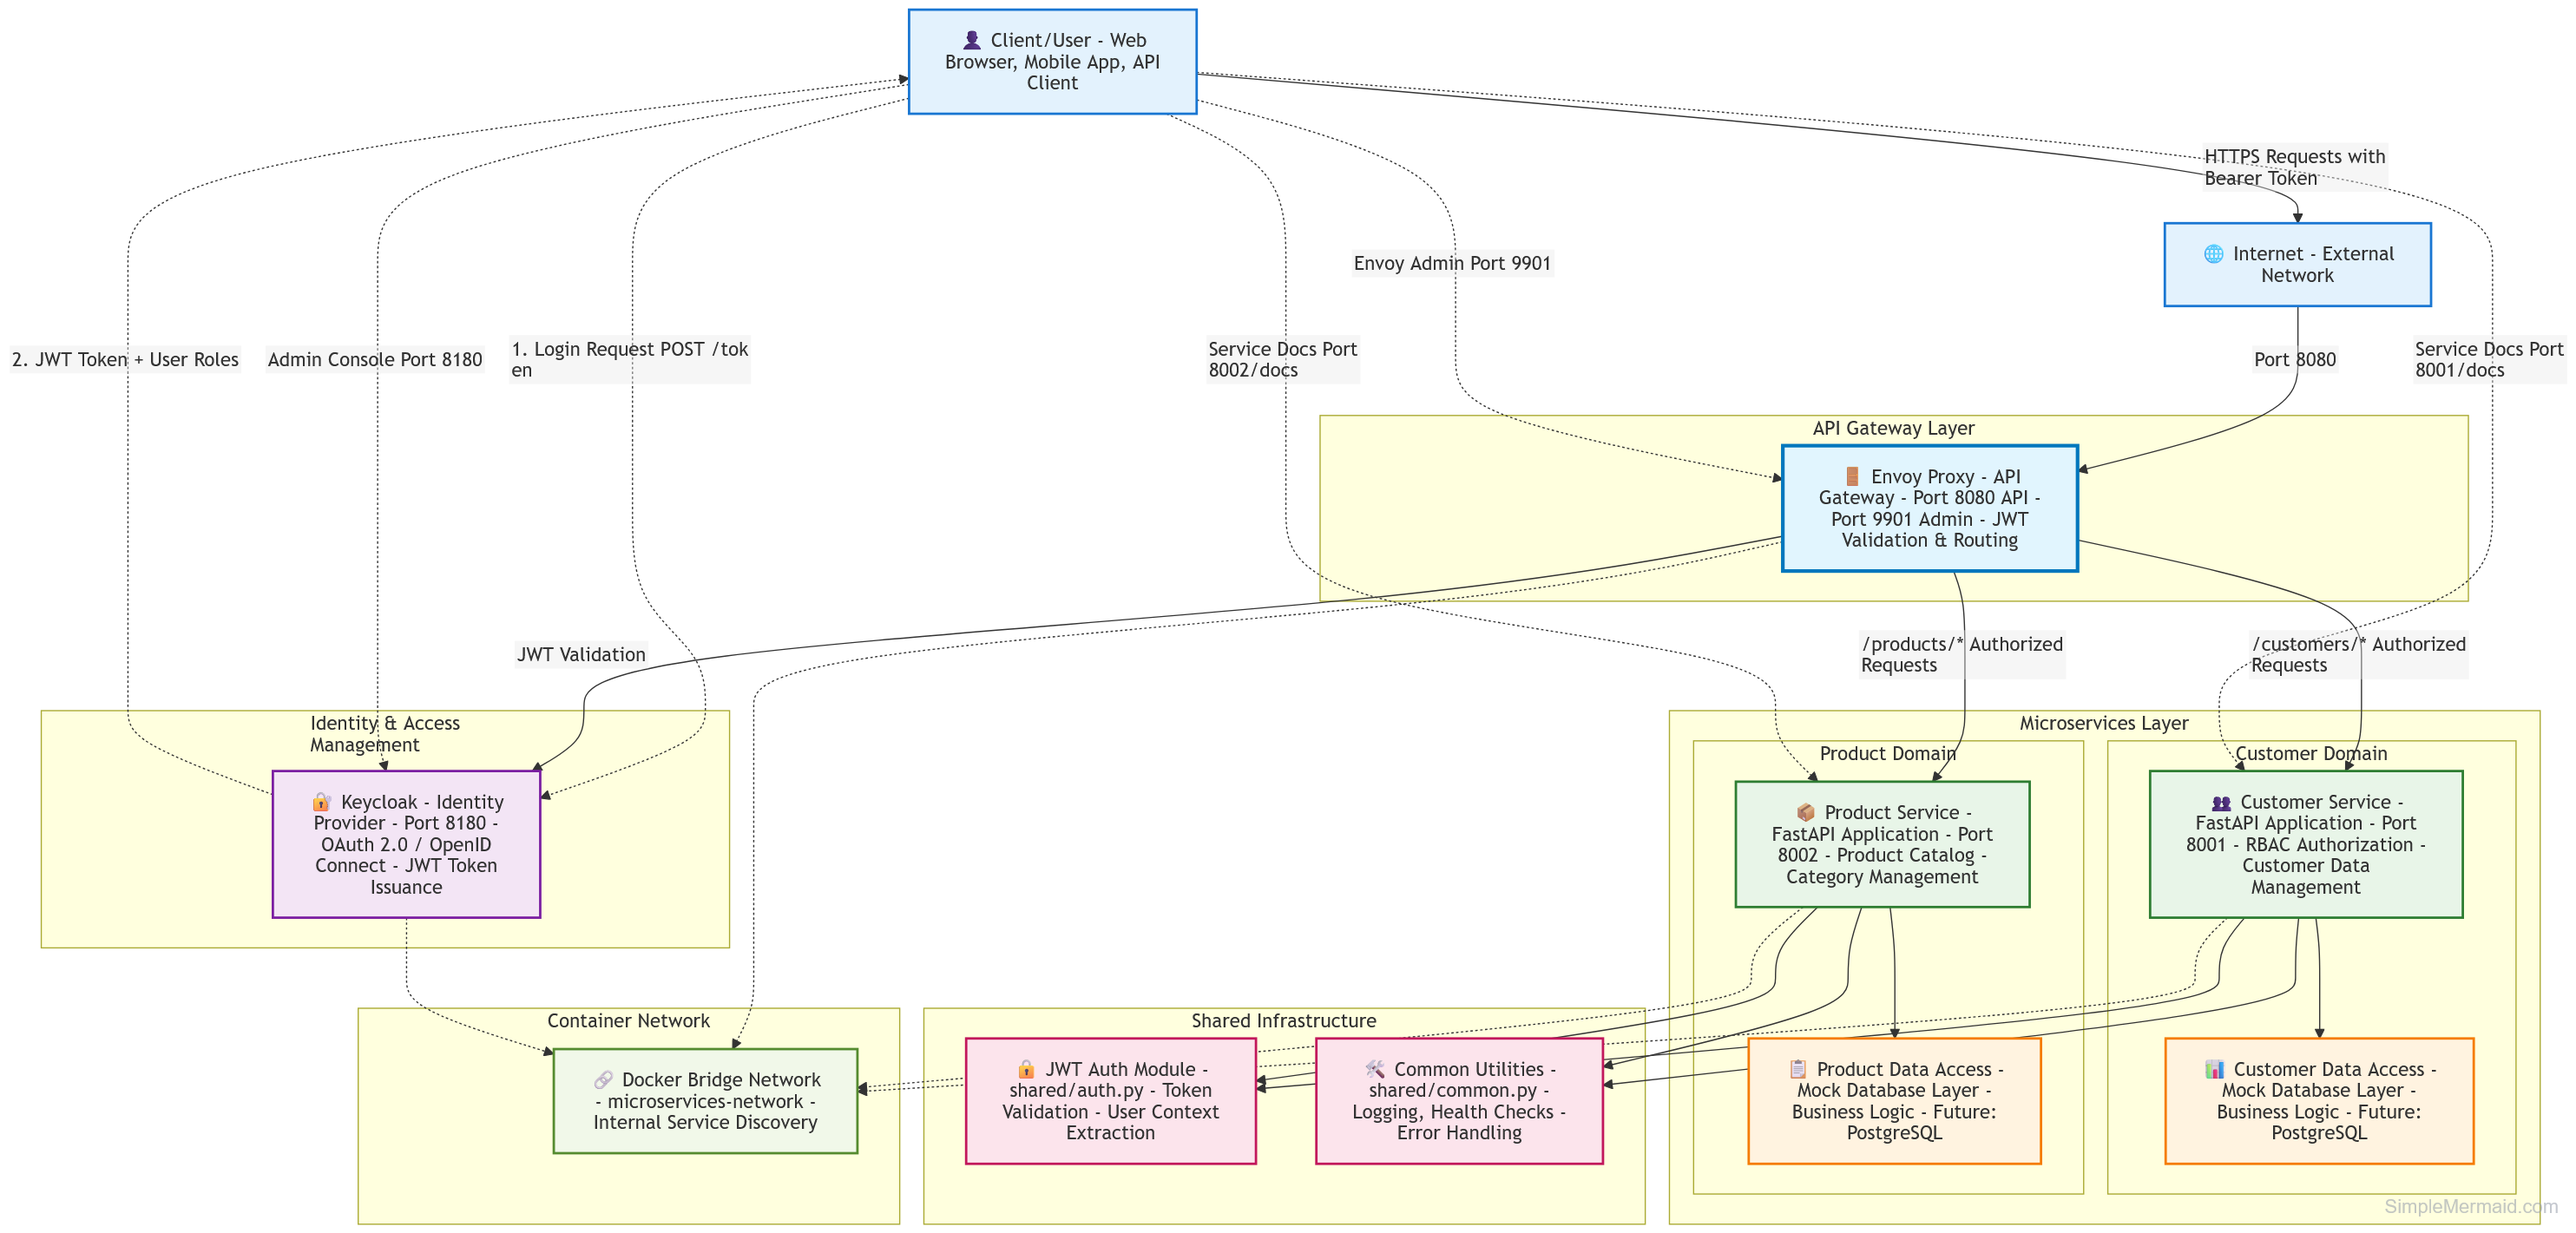
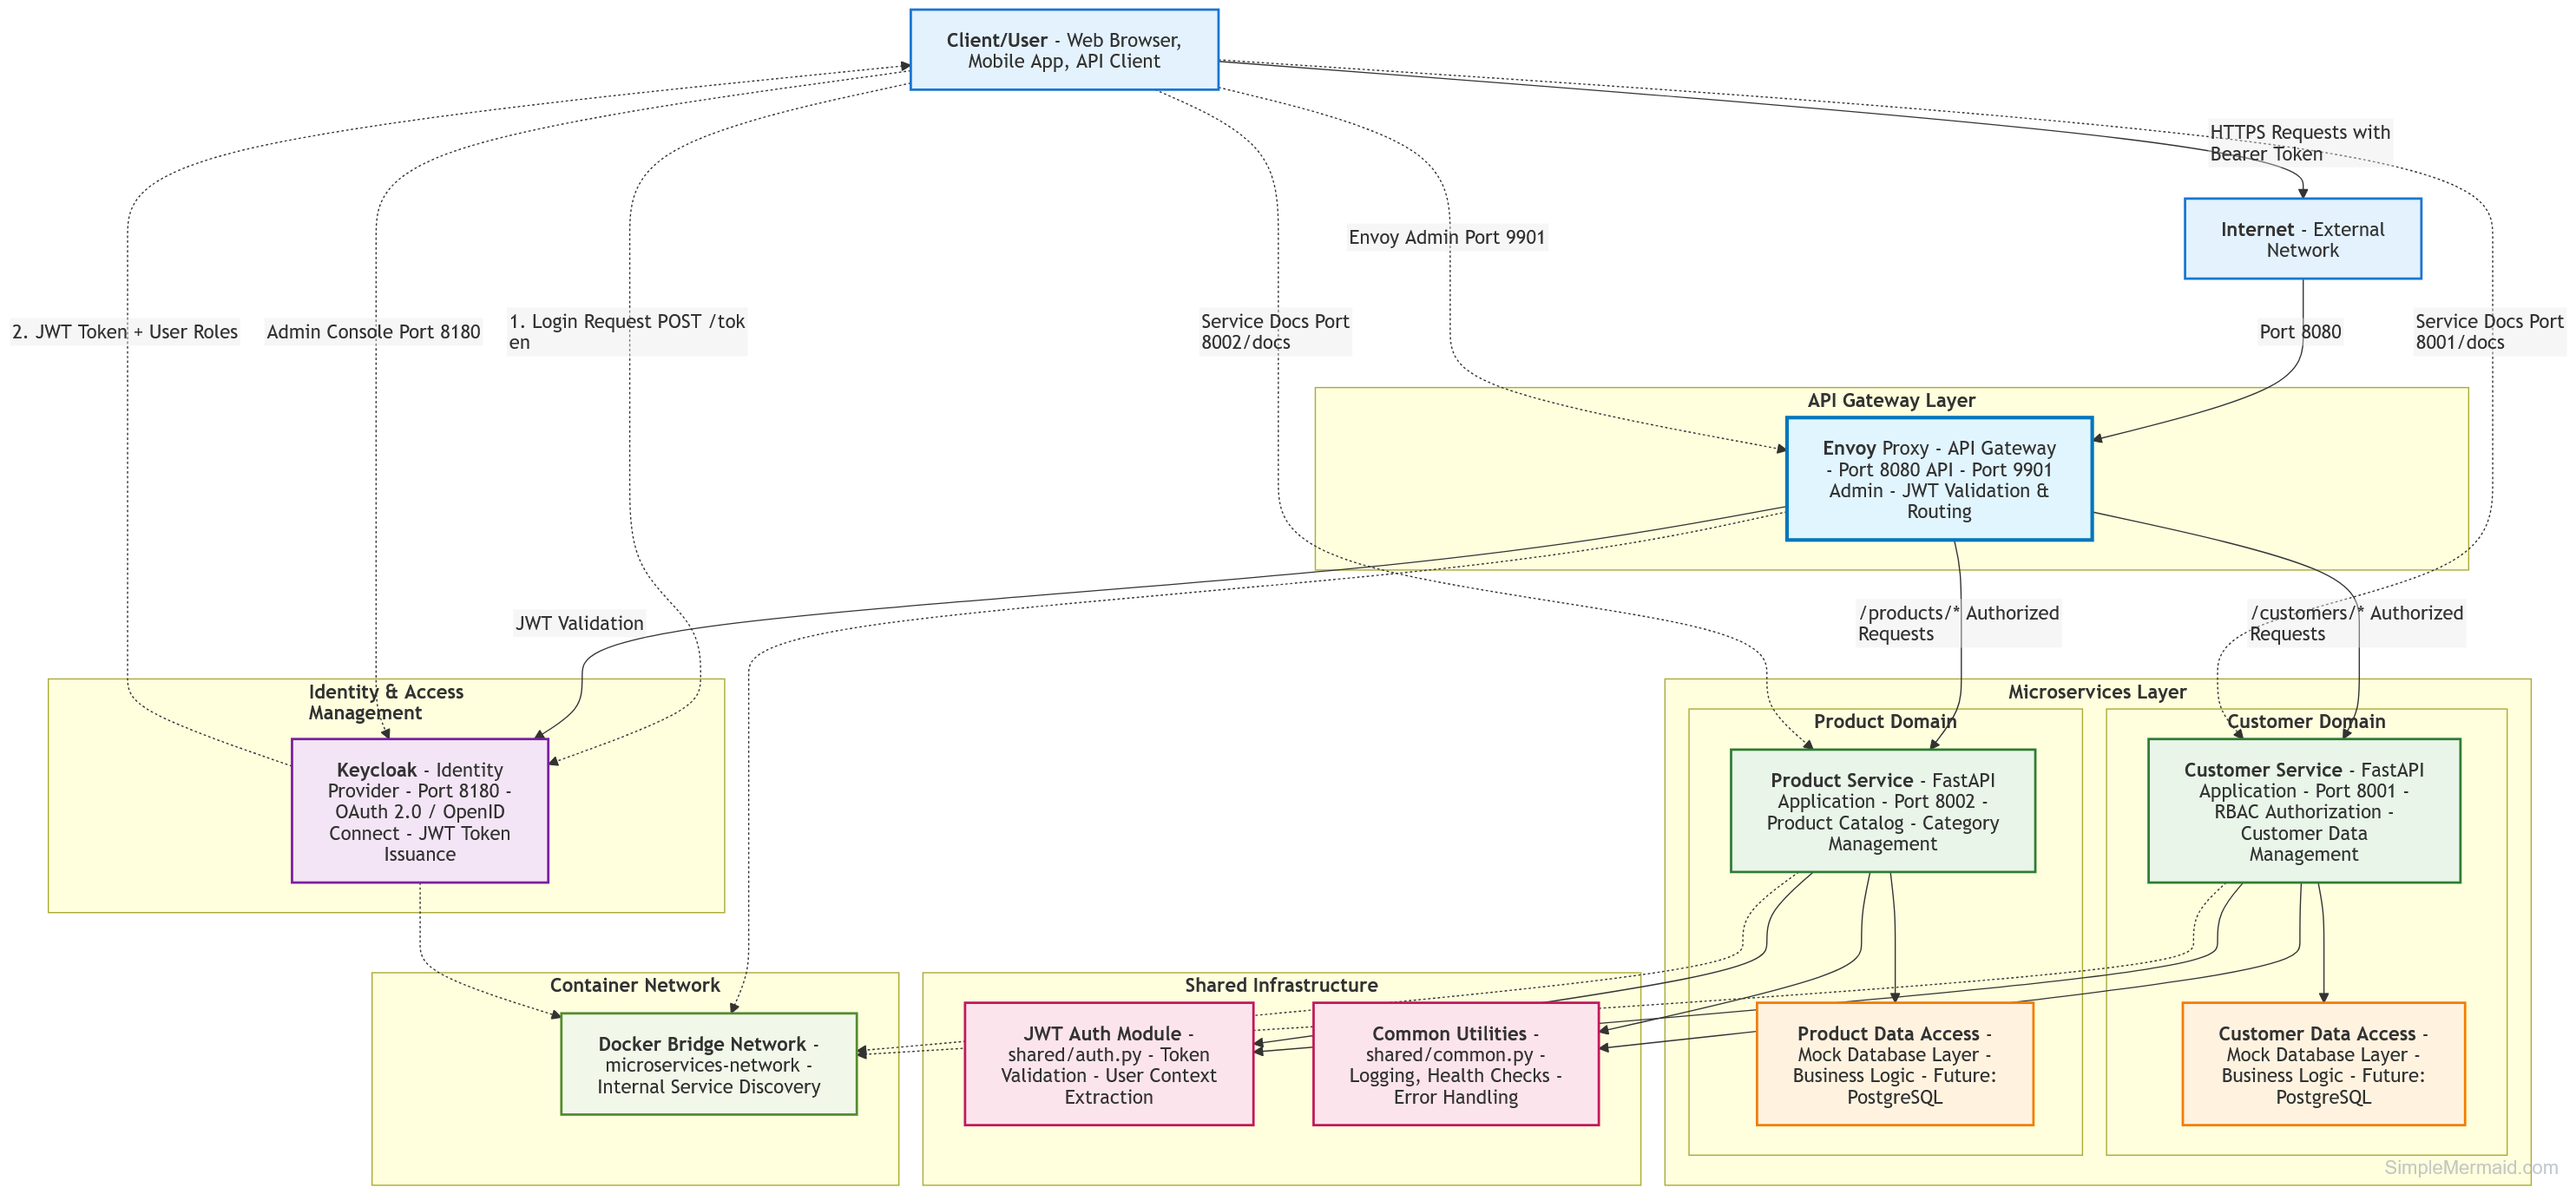
Updated diagram and unicode/emoji issues

diff --git a/docs/architecture/system-architecture.md b/docs/architecture/system-architecture.md
@@ -7,45 +7,44 @@ This document provides a high-level view of the API Gateway POC system architect
 ```mermaid
 graph TB
     %% External Users
-    User[?? Client/User - Web Browser, Mobile App, API Client]
- 
+    User[**Client/User** - Web Browser, Mobile App, API Client]
+    
     %% External Internet
-    Internet[?? Internet - External Network]
+    Internet[**Internet** - External Network]
     
     %% API Gateway Layer
-    subgraph "API Gateway Layer"
-        Envoy[?? Envoy Proxy - API Gateway - Port 8080 API - Port 9901 Admin - JWT Validation & Routing]
+    subgraph "**API Gateway Layer**"
+        Envoy[**Envoy** Proxy - API Gateway - Port 8080 API - Port 9901 Admin - JWT Validation & Routing]
     end
     
     %% Authentication Layer
-    subgraph "Identity & Access Management"
-        Keycloak[?? Keycloak - Identity Provider - Port 8180 - OAuth 2.0 / OpenID Connect - JWT Token Issuance]
+    subgraph "**Identity & Access Management**"
+        Keycloak[**Keycloak** - Identity Provider - Port 8180 - OAuth 2.0 / OpenID Connect - JWT Token Issuance]
     end
 
     %% Microservices Layer
-    subgraph "Microservices Layer"
-subgraph "Customer Domain"
-          CustomerAPI[?? Customer Service - FastAPI Application - Port 8001 - RBAC Authorization - Customer Data Management]
-          CustomerData[?? Customer Data Access - Mock Database Layer - Business Logic - Future: PostgreSQL]
-  end
-        
-        subgraph "Product Domain"
-         ProductAPI[?? Product Service - FastAPI Application - Port 8002 - Product Catalog - Category Management]
-      ProductData[?? Product Data Access - Mock Database Layer - Business Logic - Future: PostgreSQL]
-    end
+    subgraph "**Microservices Layer**"
+        subgraph "**Customer Domain**"
+            CustomerAPI[**Customer Service** - FastAPI Application - Port 8001 - RBAC Authorization - Customer Data Management]
+            CustomerData[**Customer Data Access** - Mock Database Layer - Business Logic - Future: PostgreSQL]
+        end      
+        subgraph "**Product Domain**"
+            ProductAPI[**Product Service** - FastAPI Application - Port 8002 - Product Catalog - Category Management]
+            ProductData[**Product Data Access** - Mock Database Layer - Business Logic - Future: PostgreSQL]
+        end
     end
     
     %% Shared Infrastructure
-    subgraph "Shared Infrastructure"
-        AuthModule[?? JWT Auth Module - shared/auth.py - Token Validation - User Context Extraction]
-  CommonUtils[??? Common Utilities - shared/common.py - Logging, Health Checks - Error Handling]
+    subgraph "**Shared Infrastructure**"
+        AuthModule[**JWT Auth Module** - shared/auth.py - Token Validation - User Context Extraction]
+        CommonUtils[**Common Utilities** - shared/common.py - Logging, Health Checks - Error Handling]
     end
     
     %% Network
-    subgraph "Container Network"
-        Network[?? Docker Bridge Network - microservices-network - Internal Service Discovery]
+    subgraph "**Container Network**"
+        Network[**Docker Bridge Network** - microservices-network - Internal Service Discovery]
     end
-  
+    
     %% Data Flow Connections
     User -->|HTTPS Requests with Bearer Token| Internet
     Internet -->|Port 8080| Envoy
@@ -58,7 +57,7 @@ subgraph "Customer Domain"
     Envoy -->|JWT Validation| Keycloak
     Envoy -->|/customers/* Authorized Requests| CustomerAPI
     Envoy -->|/products/* Authorized Requests| ProductAPI
-    
+
     %% Service Internal Flow
     CustomerAPI --> AuthModule
     CustomerAPI --> CustomerData
@@ -66,7 +65,7 @@ subgraph "Customer Domain"
     
     ProductAPI --> AuthModule
     ProductAPI --> ProductData
-  ProductAPI --> CommonUtils
+    ProductAPI --> CommonUtils
     
     %% Network Connections
     Envoy -.-> Network
@@ -83,7 +82,7 @@ subgraph "Customer Domain"
     %% Styling
     classDef gateway fill:#e1f5fe,stroke:#0277bd,stroke-width:3px
     classDef auth fill:#f3e5f5,stroke:#7b1fa2,stroke-width:2px
-classDef service fill:#e8f5e8,stroke:#2e7d32,stroke-width:2px
+    classDef service fill:#e8f5e8,stroke:#2e7d32,stroke-width:2px
     classDef data fill:#fff3e0,stroke:#f57c00,stroke-width:2px
     classDef shared fill:#fce4ec,stroke:#c2185b,stroke-width:2px
     classDef network fill:#f1f8e9,stroke:#558b2f,stroke-width:2px
@@ -93,14 +92,14 @@ classDef service fill:#e8f5e8,stroke:#2e7d32,stroke-width:2px
     class Keycloak auth
     class CustomerAPI,ProductAPI service
     class CustomerData,ProductData data
- class AuthModule,CommonUtils shared
+    class AuthModule,CommonUtils shared
     class Network network
     class User,Internet external
 ```
 
 ## Component Details
 
-### ?? **Envoy API Gateway** 
+### **Envoy API Gateway** 
 - **Purpose**: Single entry point for all API requests
 - **Ports**: 
   - `8080` - Main API endpoint (public)
@@ -112,7 +111,7 @@ classDef service fill:#e8f5e8,stroke:#2e7d32,stroke-width:2px
   - Rate limiting and request/response transformation
 - **Technology**: Envoy Proxy v1.31
 
-### ?? **Keycloak Identity Provider**
+### **Keycloak Identity Provider**
 - **Purpose**: Centralized authentication and authorization
 - **Port**: `8180` - HTTP interface
 - **Responsibilities**:
@@ -123,7 +122,7 @@ classDef service fill:#e8f5e8,stroke:#2e7d32,stroke-width:2px
 - **Technology**: Keycloak 23.0
 - **Default Admin**: admin/admin (development only)
 
-### ?? **Customer Service**
+### **Customer Service**
 - **Purpose**: Customer data management with RBAC
 - **Port**: `8001` - FastAPI application
 - **Authorization Rules**:
@@ -132,14 +131,14 @@ classDef service fill:#e8f5e8,stroke:#2e7d32,stroke-width:2px
 - **Technology**: FastAPI 0.111.0 + Python 3.12
 - **Data Layer**: Mock data (future PostgreSQL)
 
-### ?? **Product Service**
+### **Product Service**
 - **Purpose**: Product catalog and category management
 - **Port**: `8002` - FastAPI application
 - **Authorization**: All users with `user` role (via Envoy)
 - **Technology**: FastAPI 0.111.0 + Python 3.12
 - **Data Layer**: Mock data (future PostgreSQL)
 
-### ?? **Shared Authentication Module**
+### **Shared Authentication Module**
 - **Location**: `services/shared/auth.py`
 - **Purpose**: JWT token decoding and user context extraction
 - **Features**:
@@ -147,7 +146,7 @@ classDef service fill:#e8f5e8,stroke:#2e7d32,stroke-width:2px
   - Role extraction from `realm_access.roles`
   - FastAPI dependency injection support
 
-### ??? **Common Utilities**
+### **Common Utilities**
 - **Location**: `services/shared/common.py`
 - **Purpose**: Shared functionality across services
 - **Features**:
@@ -188,28 +187,28 @@ classDef service fill:#e8f5e8,stroke:#2e7d32,stroke-width:2px
 3. **Product Service**: Basic access control (user role via Envoy)
 
 ### Security Features
-- ?? JWT signature validation
-- ??? Role-based access control (RBAC)
-- ?? Client secret authentication
-- ?? Comprehensive audit logging
-- ?? Request rate limiting (Envoy)
-- ?? Secure container networking
+- JWT signature validation
+- Role-based access control (RBAC)
+- Client secret authentication
+- Comprehensive audit logging
+- Request rate limiting (Envoy)
+- Secure container networking
 
 ## Data Flow Patterns
 
 ### Read Operations
 ```
-Client ? Envoy ? JWT Validation ? Service ? Data Layer ? Response
+Client -> Envoy -> JWT Validation -> Service -> Data Layer -> Response
 ```
 
 ### Authentication
 ```
-Client ? Keycloak ? JWT Token ? Client ? Envoy (validates) ? Service
+Client -> Keycloak -> JWT Token -> Client -> Envoy (validates) -> Service
 ```
 
 ### Authorization
 ```
-Envoy (Role Check) ? Service (Business Logic RBAC) ? Data Access
+Envoy (Role Check) -> Service (Business Logic RBAC) -> Data Access
 ```
 
 ## Future Enhancements
